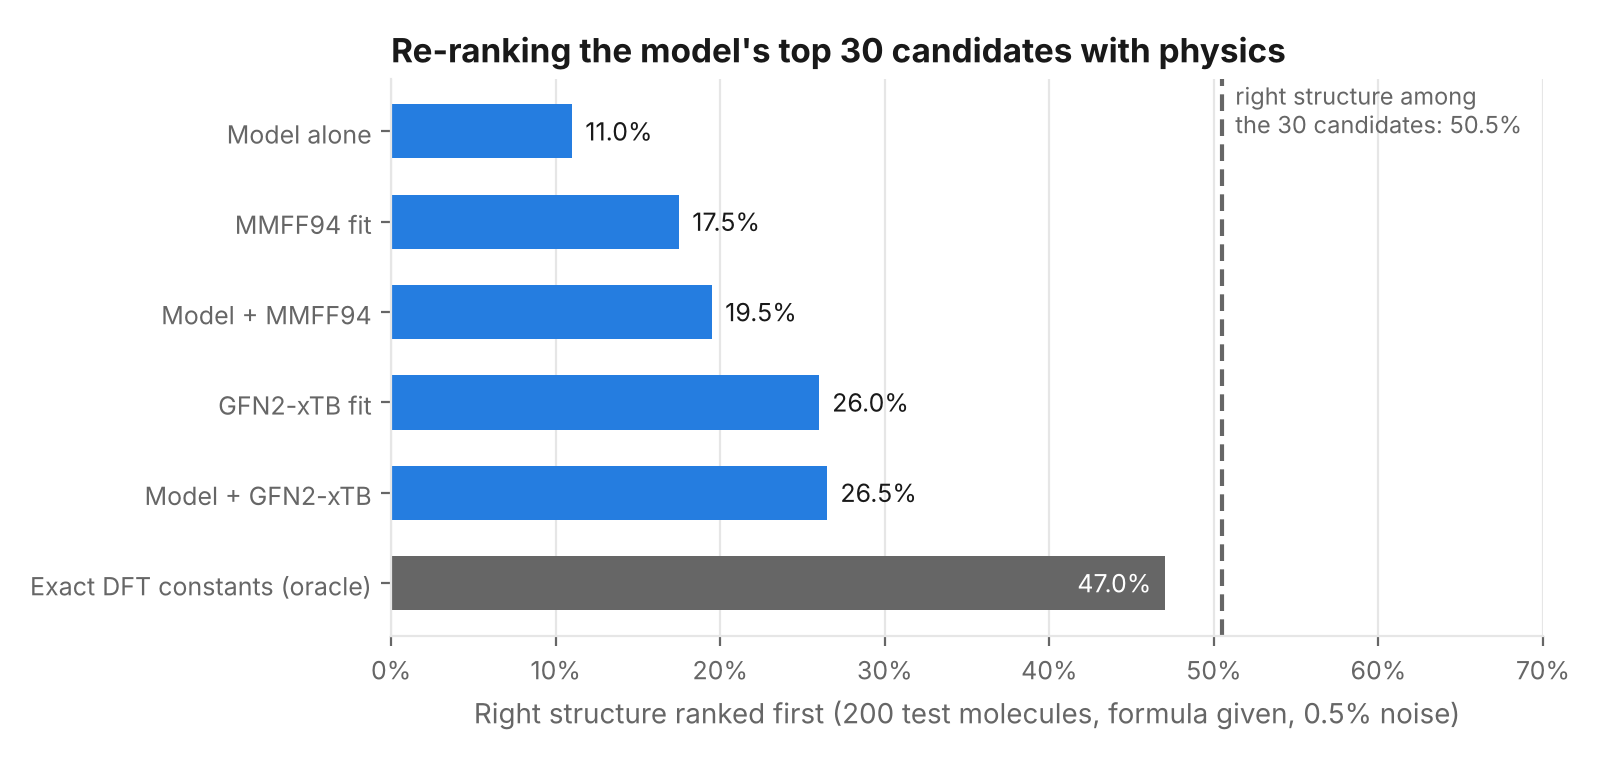
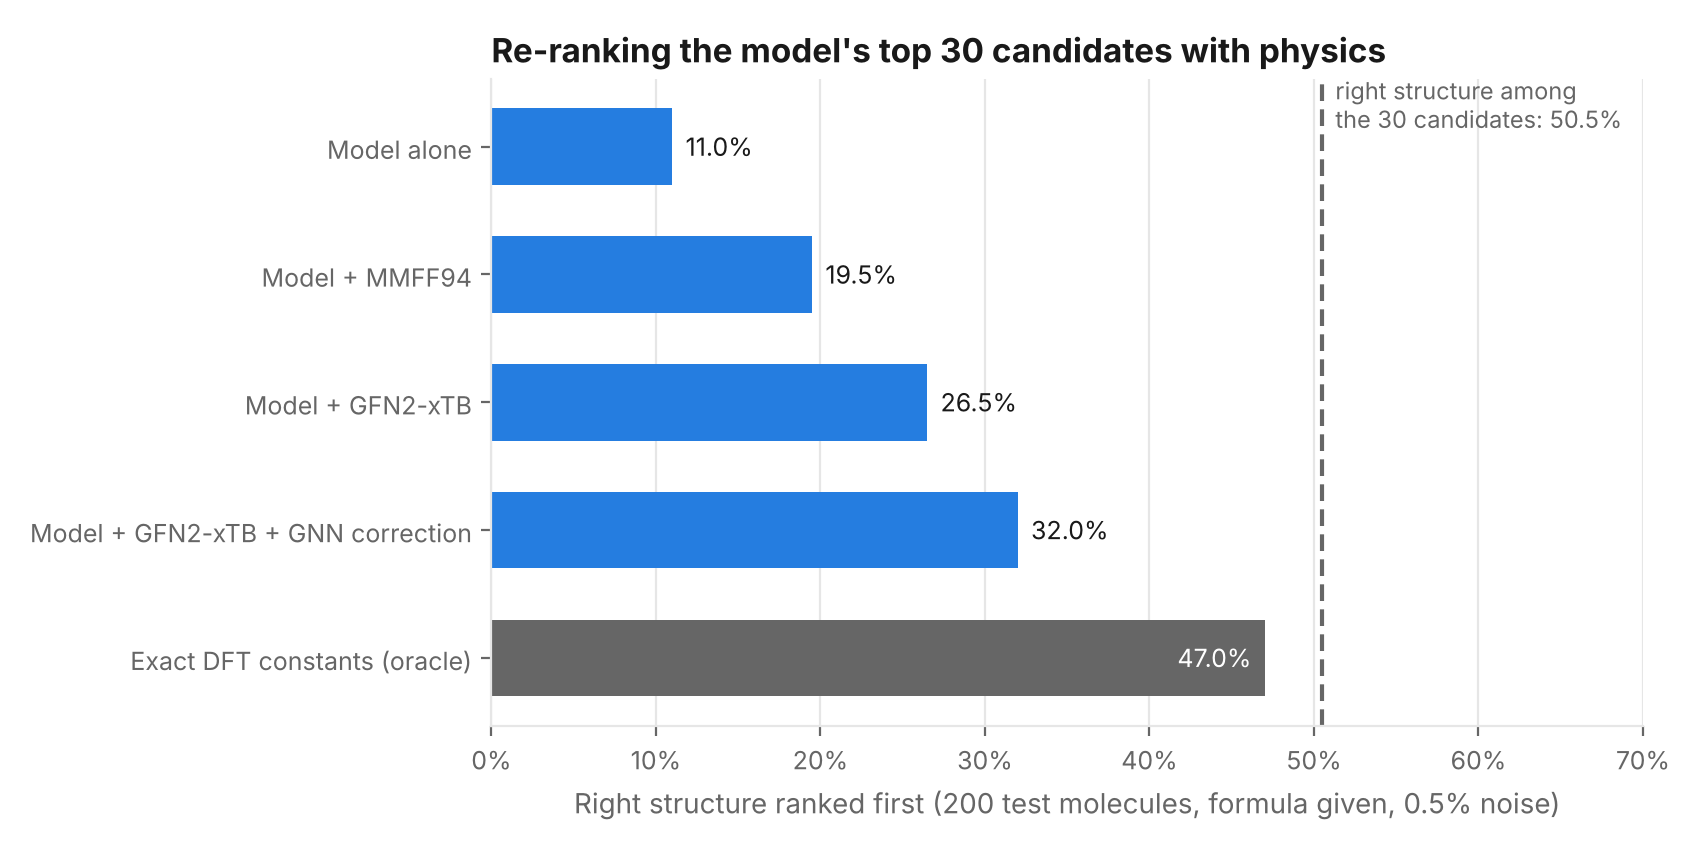
README: GNN geometry corrector results; re-ranking figure includes the correction
Claude-Session: https://claude.ai/code/session_016XJZXzNotU9gsJ2FA3irWT

diff --git a/scripts/07b_plot_rerank.py b/scripts/07b_plot_rerank.py
@@ -15,27 +15,31 @@ from matplotlib.ticker import PercentFormatter
 
 from rotml.plotting import SERIES, TEXT, TEXT_SECONDARY, apply_style
 
-LABELS = {
-    "model": "Model alone",
-    "mmff fit": "MMFF94 fit",
-    "model + mmff": "Model + MMFF94",
-    "xtb fit": "GFN2-xTB fit",
-    "model + xtb": "Model + GFN2-xTB",
-    "DFT lookup (oracle)": "Exact DFT constants (oracle)",
-}
+# (summary file, ranking, label); rows whose file is missing are skipped.
+ROWS = [
+    ("summary.csv", "model", "Model alone"),
+    ("summary.csv", "model + mmff", "Model + MMFF94"),
+    ("summary.csv", "model + xtb", "Model + GFN2-xTB"),
+    ("summary_gnn.csv", "model + gnn", "Model + GFN2-xTB + GNN correction"),
+    ("summary_adaptive.csv", "model + gnn", "... + wider conformer search"),
+    ("summary.csv", "DFT lookup (oracle)", "Exact DFT constants (oracle)"),
+]
 
 
 def main() -> None:
     ap = argparse.ArgumentParser()
     ap.add_argument("--results", type=Path, default=Path("results/m5_rerank"))
     args = ap.parse_args()
-    s = pd.read_csv(args.results / "summary.csv").set_index("ranking")
+    tables = {f: pd.read_csv(args.results / f).set_index("ranking")
+              for f in {r[0] for r in ROWS} if (args.results / f).exists()}
+    rows = [r for r in ROWS if r[0] in tables and r[1] in tables[r[0]].index]
+    s = tables["summary.csv"]
     ceiling = 100 * s.loc["in candidates (ceiling)", "recall@1"]
-    names = list(LABELS)
-    vals = [100 * s.loc[n, "recall@1"] for n in names]
+    names = [r[2] for r in rows]
+    vals = [100 * tables[f].loc[k, "recall@1"] for f, k, _ in rows]
 
     apply_style()
-    fig, ax = plt.subplots(figsize=(8, 3.8))
+    fig, ax = plt.subplots(figsize=(8.5, 0.55 * len(names) + 1.5))
     y = range(len(names))[::-1]
     colors = [TEXT_SECONDARY if "oracle" in n else SERIES[0] for n in names]
     ax.barh(list(y), vals, height=0.6, color=colors)
@@ -47,7 +51,7 @@ def main() -> None:
     ax.axvline(ceiling, color=TEXT_SECONDARY, ls=(0, (4, 2)), lw=1.5)
     ax.text(ceiling + 0.8, len(names) - 0.45, f"right structure among\nthe 30 candidates: {ceiling:.1f}%",
             va="top", fontsize=8.5, color=TEXT_SECONDARY)
-    ax.set_yticks(list(y), [LABELS[n] for n in names])
+    ax.set_yticks(list(y), names)
     ax.set_xlim(0, 70)
     ax.xaxis.set_major_formatter(PercentFormatter(decimals=0))
     n = int(s["n"].iloc[0])

diff --git a/README.md b/README.md
@@ -17,7 +17,7 @@ pipeline design and the closest prior work.
 | 2. Error of cheap geometry methods (MMFF94, GFN2-xTB) vs DFT | done |
 | 3. Baseline inverse model (constants -> SELFIES transformer) | 3.8M-parameter CPU run done: with the formula, 43% top-10 recall on unseen formulas (random isomers: 4.4%). Without it, 2-3%; proposing formulas first lifts top-100 recall from 2% to 6%. Full 9.65M-parameter run needs a GPU |
 | 4. KREED baseline and ablations | planned |
-| 5. Full propose -> verify -> rank pipeline | first prototype: GFN2-xTB re-ranking of the top 30 candidates lifts top-1 recall from 11% to 26.5% (formula given) |
+| 5. Full propose -> verify -> rank pipeline | prototype: re-ranking the top 30 candidates with GFN2-xTB plus a GNN geometry correction lifts top-1 recall from 11% to 32% (formula given) |
 
 ## Milestone 1: how much do rotational constants pin down a molecule?
 
@@ -260,7 +260,7 @@ Findings:
   truly new), model p(constants | formula) instead of p(formula | constants),
   or generate across many formulas and let physics decide (milestone 5).
 
-## Milestone 5 (first prototype): re-ranking candidates with physics
+## Milestone 5 (prototype): re-ranking candidates with physics
 
 For 200 test molecules (formula given, 0.5% noise), each of the model's top
 30 candidates was checked with physics (`scripts/07_physics_rerank.py`,
@@ -284,7 +284,9 @@ Results are in `results/m5_rerank/`.
 | MMFF94 fit | 17.5% | 33.5% | 39.5% |
 | Model + MMFF94 | 19.5% | 38.5% | 44.0% |
 | GFN2-xTB fit | 26.0% | 40.5% | 44.5% |
-| **Model + GFN2-xTB** | **26.5%** | **43.0%** | **45.5%** |
+| Model + GFN2-xTB | 26.5% | 43.0% | 45.5% |
+| GFN2-xTB + GNN correction fit | 32.5% | 42.0% | 44.5% |
+| **Model + GFN2-xTB + GNN correction** | **32.0%** | **43.5%** | **45.5%** |
 | Exact DFT constants (oracle) | 47.0% | 50.0% | 50.5% |
 | Ceiling: right structure among the 30 candidates | 50.5% | 50.5% | 50.5% |
 
@@ -292,29 +294,59 @@ Results are in `results/m5_rerank/`.
 
 Findings:
 
-- **Physics re-ranking more than doubles top-1 recall**, from 11% to 26.5%
-  (+15.5 points, bootstrap 95% CI 9.5 to 21). For molecules whose formula
-  the model has never seen, the right structure is now ranked first about a
-  quarter of the time.
+- **Physics re-ranking roughly triples top-1 recall**, from 11% to 32%
+  (bootstrap 95% CI of the gain 15 to 27.5 points). GFN2-xTB alone gives
+  26.5% (+15.5 points, CI 9.5 to 21), and the GNN correction (below) adds
+  5.5 points (CI 2 to 9.5: it wins 13 molecules and loses 2). For molecules
+  whose formula the model has never seen, the right structure is now ranked
+  first about a third of the time.
 - **It is cheap.** GFN2-xTB took about 1 CPU-minute per molecule for 30
-  candidates. MMFF94 alone gives less than half the gain.
-- **The method's accuracy is the main remaining loss.** With exact DFT
-  constants for the candidates, top-1 recall would reach 47%, close to the
-  50.5% ceiling. The right structure was proposed but not ranked first by
-  model + GFN2-xTB in 48 molecules:
-  - 28: a wrong candidate fit better within GFN2-xTB's accuracy (look-alikes,
-    as in milestone 1).
-  - 15: the right structure's computed constants were off by more than 3%
+  candidates, and the GNN correction adds well under a second. MMFF94 alone
+  gives less than half the gain.
+- **What is still lost.** With exact DFT constants for the candidates, top-1
+  recall would reach 47%, close to the 50.5% ceiling. The right structure was
+  proposed (101 molecules) but not ranked first by model + GFN2-xTB + GNN in
+  37 molecules:
+  - 20: a wrong candidate fit better (look-alikes, as in milestone 1). This
+    was 28 before the GNN correction.
+  - 12: the right structure's computed constants were off by more than 3%
     (wrong conformer or method error).
-  - 5: no geometry could be made.
+  - 5: no geometry could be made (strained cages ETKDG cannot embed).
 
-  The right structure's error has a median of 1.05% but a 90th percentile of
-  11%.
-- **Next steps are clear.** Get more accurate constants for the candidates,
-  either from DFT on the few survivors or from a GNN trained to correct cheap
-  geometries to DFT quality. Use a proper conformer search (CREST) for
-  flexible candidates. And raise the ceiling with a stronger proposal model
-  (the GPU run).
+### GNN geometry corrector
+
+GFN2-xTB geometries are close to DFT ones but not close enough: their
+constants scatter by ~1% around B3LYP, so look-alike candidates are hard to
+tell apart. The corrector (`src/rotml/ml/corrector.py`) is a small
+equivariant GNN (0.25M parameters): SchNet-style message passing on
+interatomic distances, then each atom moves along the directions to its
+neighbours by learned amounts. Rotational constants are computed exactly
+from the corrected geometry, so the network learns geometry, not constants,
+and the constants cannot depend on orientation.
+
+It was trained on 16,000 QM9 molecules from the training formulas: GFN2-xTB
+relaxed from the DFT geometry (same conformer), with the B3LYP geometry and
+constants as targets (`scripts/10_build_corrector_data.py`,
+`scripts/11_train_corrector.py`; 30 epochs, 1.5 h on 2 CPU threads). On 1,500
+test molecules from held-out formulas (`results/m5_corrector/`):
+
+| Error per molecule (rms over A, B, C) | Median | 68th pct | 90th pct | 95th pct |
+|---|---|---|---|---|
+| GFN2-xTB, raw | 1.72% | 2.17% | 3.75% | 5.43% |
+| GFN2-xTB, bias removed | 0.94% | 1.35% | 3.14% | 4.94% |
+| **GFN2-xTB + GNN correction** | **0.64%** | **1.01%** | **2.69%** | **4.29%** |
+
+![Constant error before and after correction](results/m5_corrector/error_cdf.png)
+
+The correction removes about a third of the typical error. The tail barely
+moves. It comes from molecules where GFN2-xTB relaxes into a slightly
+different conformer than DFT, which a local correction cannot undo. In the
+re-ranking, the scoring scale was fixed from the validation molecules
+(0.96% per constant), not tuned on test results.
+
+**Next steps:** a wider conformer search for the 17 conformer and embedding
+failures; DFT on the few top-ranked survivors; and a stronger proposal model
+(the GPU run) to raise the 50.5% ceiling.
 
 Caveat: the oracle can only score candidates that are QM9 molecules (59% of
 them); the rest rank last. Since the right answer is always a QM9 molecule,
@@ -350,6 +382,10 @@ python scripts/06_eval_m3.py --run runs/m3_cpu_medium --n-eval 500 --noise 0.005
 python scripts/06b_plot_m3.py --results results/m3_cpu_medium   # after copying eval summaries there
 python scripts/07_physics_rerank.py --run runs/m3_cpu_medium --out runs/m3_rerank --n 200 --top 30 --time-budget-min 100   # ~1 h on 4 cores; re-run to resume
 python scripts/07b_plot_rerank.py --results results/m5_rerank   # after copying summary.csv there
+python scripts/10_build_corrector_data.py     # ~45 min on 4 cores: GFN2-xTB vs DFT geometry pairs
+python scripts/11_train_corrector.py --threads 2   # ~1.5 h
+python scripts/11b_plot_corrector.py
+python scripts/07_physics_rerank.py --run runs/m3_cpu_medium --out runs/m3_rerank --n 200 --top 30 --cache physics_geom.jsonl --keep-geometries --corrector runs/corrector/corrector.pt --summary-name summary_gnn.csv
 python scripts/08_train_formula_model.py --out runs/formula --threads 1   # ~4 min
 python scripts/09_eval_formula_proposals.py --run runs/m3_cpu_medium --formula-model runs/formula/model.pt --n-eval 200 --top-formulas 20
 pytest
@@ -384,6 +420,7 @@ src/rotml/
   ml/decode.py                   beam search, sampling, candidate ranking
   ml/metrics.py                  recall@K, library-lookup reference
   ml/formula.py                  formula proposals from rotational constants
+  ml/corrector.py                equivariant GNN: GFN2-xTB geometry -> DFT-quality geometry
   plotting.py                    figure style
 scripts/                         numbered pipeline steps
 configs/                         training configs (GPU baseline, CPU medium, CPU pilot, tiny smoke test)

diff --git a/docs/research_plan.md b/docs/research_plan.md
@@ -58,8 +58,9 @@ moment-of-inertia guidance come after the supervised baseline.
    The 9.65M-parameter run needs a GPU (`notebooks/m3_train_colab.ipynb`).
 4. **KREED baseline** - reproduce on QM9, retrain with fewer/no isotopologue coordinates. (Removing the formula requires changing the model: that is the research contribution.)
 5. **Full pipeline** - transformer proposals -> physics scoring -> calibrated ranking; test on experimental CDMS/JPL constants.
-   First prototype (`results/m5_rerank`): GFN2-xTB re-ranking of the top 30 candidates lifts top-1 recall
-   from 11% to 26.5% (formula given); exact DFT constants would give 47%, against a 50.5% ceiling.
+   Prototype (`results/m5_rerank`): re-ranking the top 30 candidates lifts top-1 recall from 11% to 26.5%
+   with GFN2-xTB and to 32% with a GNN geometry correction (`results/m5_corrector`: median constant error
+   0.94% -> 0.64% on held-out formulas); exact DFT constants would give 47%, against a 50.5% ceiling.
 
 Then: astro chemical space (radicals, ions, carbon chains), raw line lists,
 line grouping, retrospective rediscovery of detected interstellar molecules.
